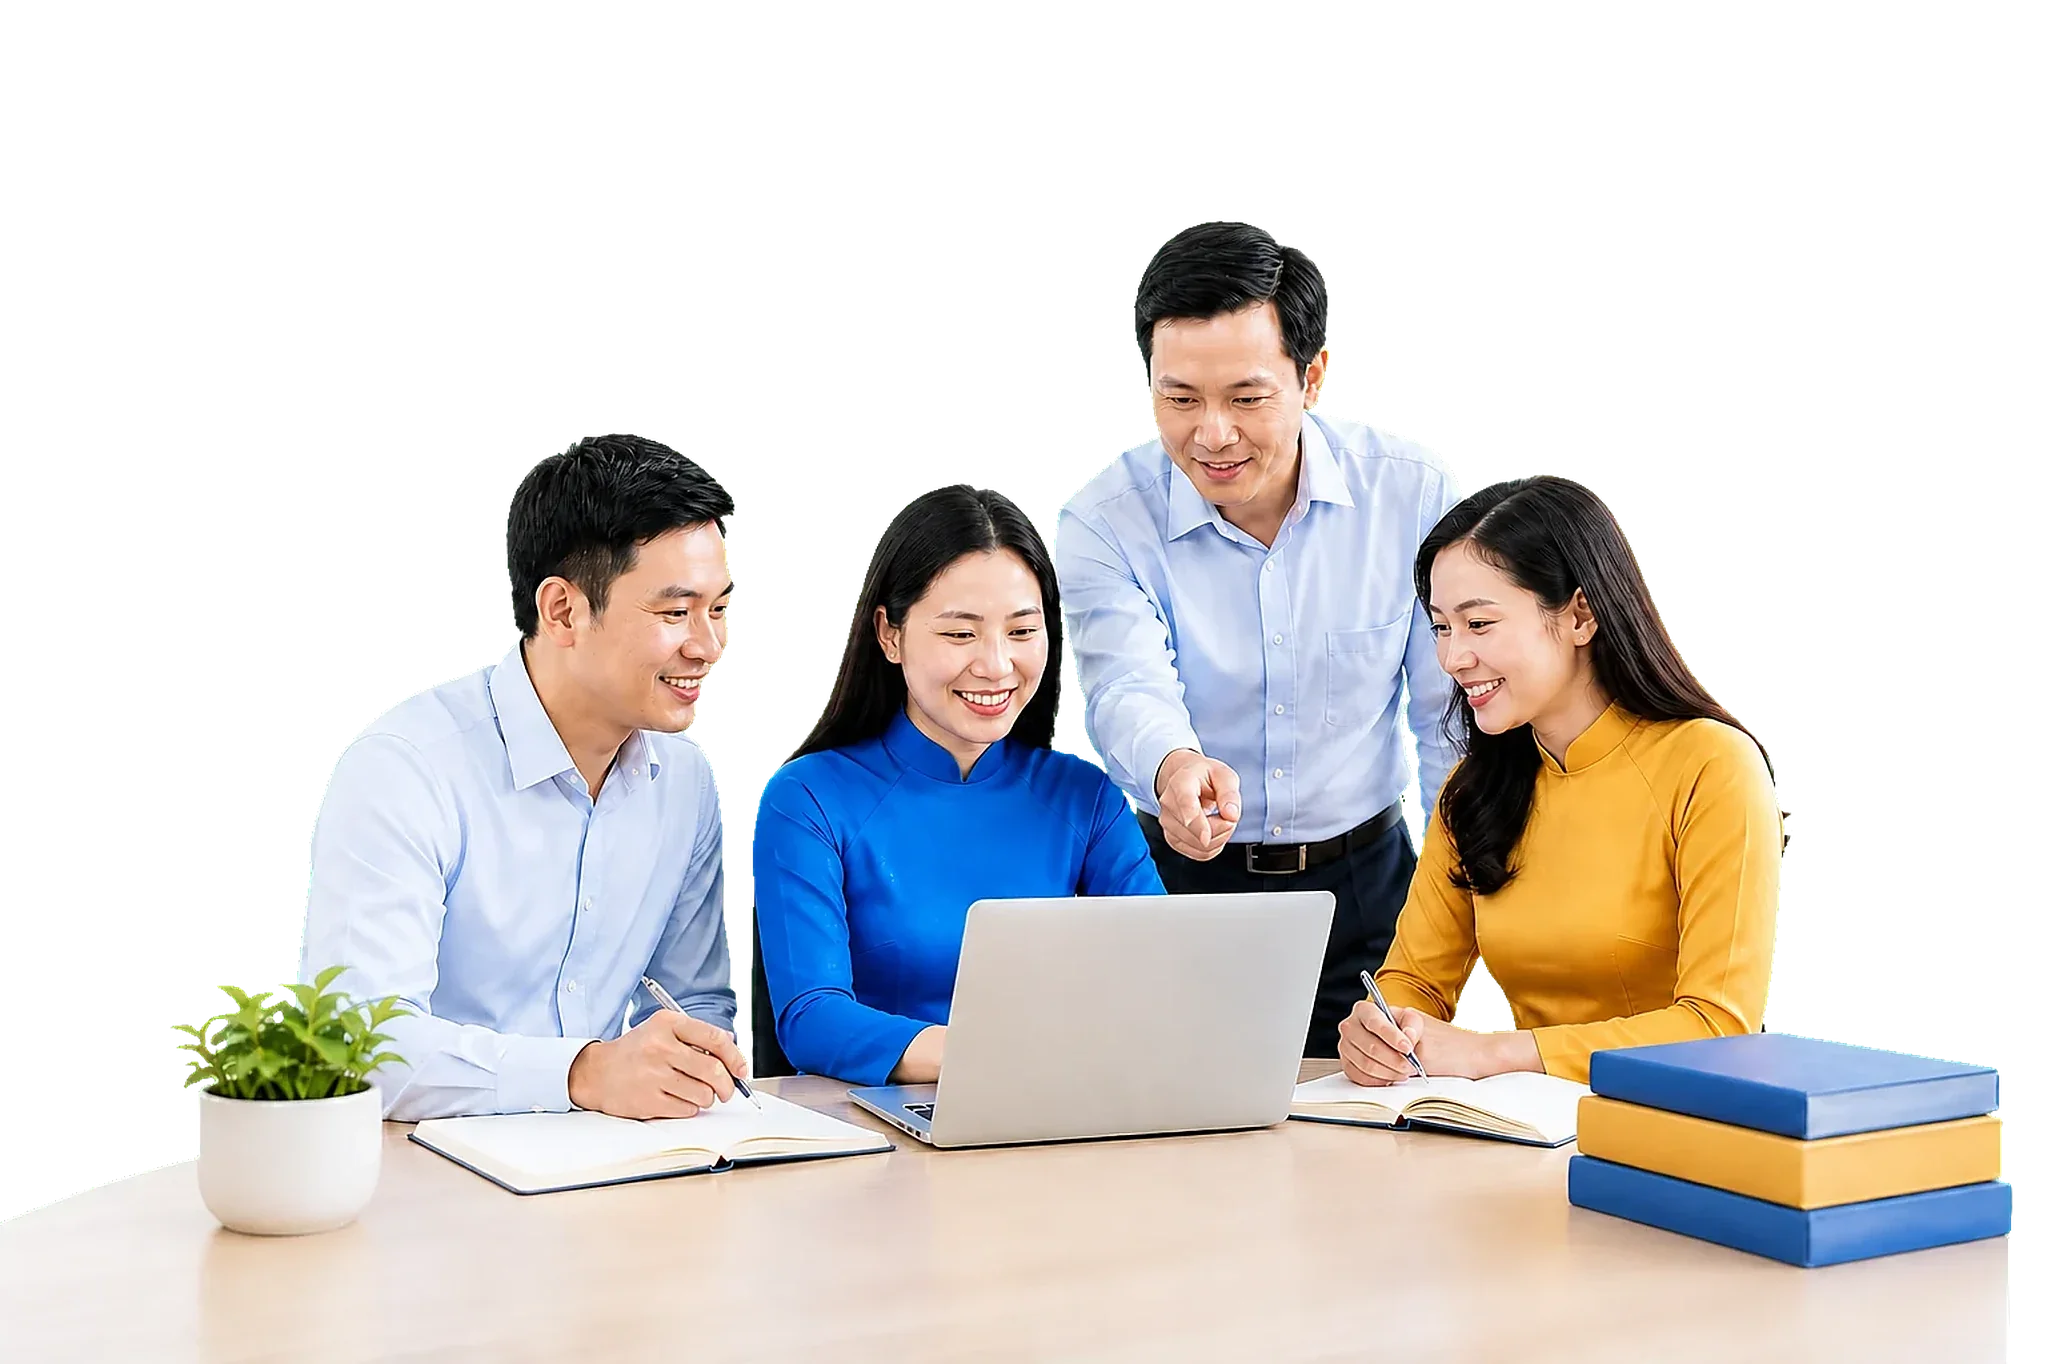
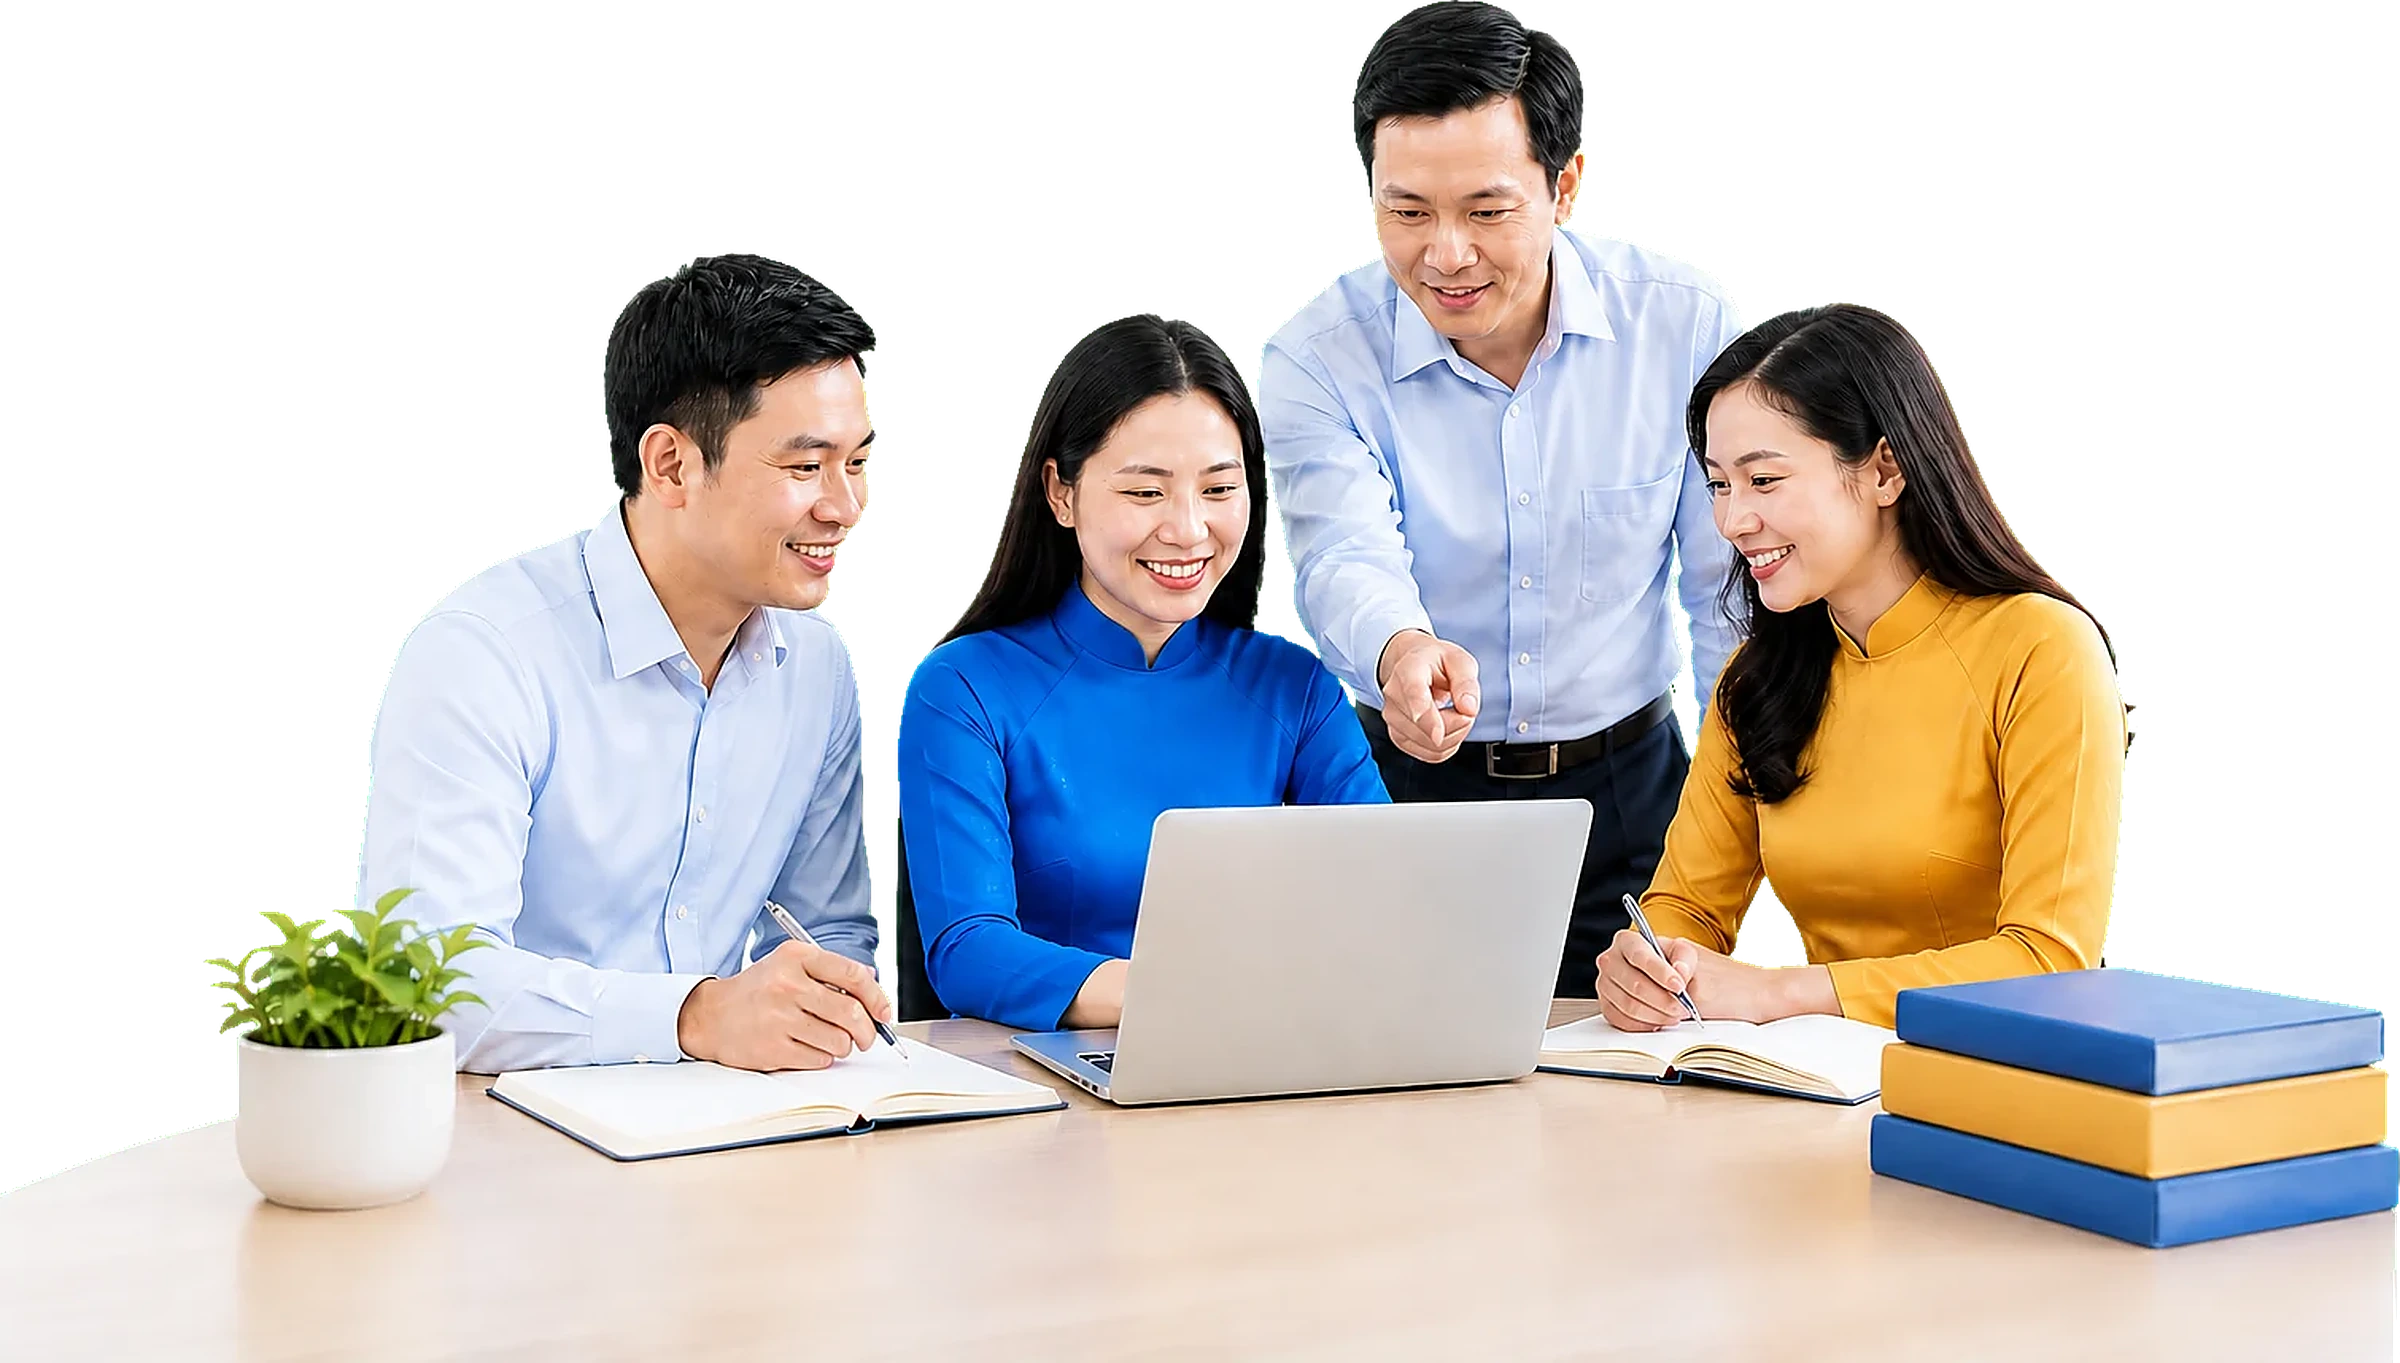
fix(hero): crop top empty padding, super-sample 2.4K resolution, and enlarge hero illustration layout

diff --git a/src/sections/home/HeroSection.css b/src/sections/home/HeroSection.css
@@ -25,17 +25,17 @@
 .hero__inner {
   display: grid;
   min-height: calc(100svh - var(--header-height));
-  grid-template-columns: minmax(0, 1.1fr) minmax(500px, 0.9fr);
+  grid-template-columns: minmax(0, 1fr) minmax(0, 1.15fr);
   align-items: center;
-  gap: clamp(24px, 3vw, 64px);
-  padding-block: clamp(54px, 7vh, 96px) 0;
+  gap: clamp(24px, 3.5vw, 56px);
+  padding-block: clamp(42px, 5vh, 72px) 0;
 }
 
 .hero__content {
   position: relative;
   z-index: 2;
-  max-width: 720px;
-  padding-bottom: clamp(76px, 9vh, 116px);
+  max-width: 680px;
+  padding-bottom: clamp(48px, 6vh, 80px);
 }
 
 .hero__kicker {
@@ -102,15 +102,20 @@
   z-index: 1;
   align-self: end;
   min-width: 0;
+  display: flex;
+  justify-content: flex-end;
 }
 
 .hero__people {
   position: relative;
   z-index: 2;
-  width: min(860px, 59vw);
+  width: min(840px, 100%);
   max-width: 100%;
-  margin-left: -4%;
-  filter: drop-shadow(0 28px 34px rgb(4 42 91 / 12%));
+  height: auto;
+  object-fit: contain;
+  object-position: bottom right;
+  filter: drop-shadow(0 28px 42px rgb(4 42 91 / 14%));
+  margin: 0;
 }
 
 .hero__orb {
@@ -162,12 +167,13 @@
 
 @media (max-width: 1200px) {
   .hero__inner {
-    grid-template-columns: minmax(0, 1.1fr) minmax(360px, 0.9fr);
+    grid-template-columns: minmax(0, 1fr) minmax(0, 1fr);
   }
 
   .hero__people {
-    width: min(720px, 55vw);
-    margin-left: -6%;
+    width: 100%;
+    max-width: 640px;
+    margin: 0 auto;
   }
 }
 
